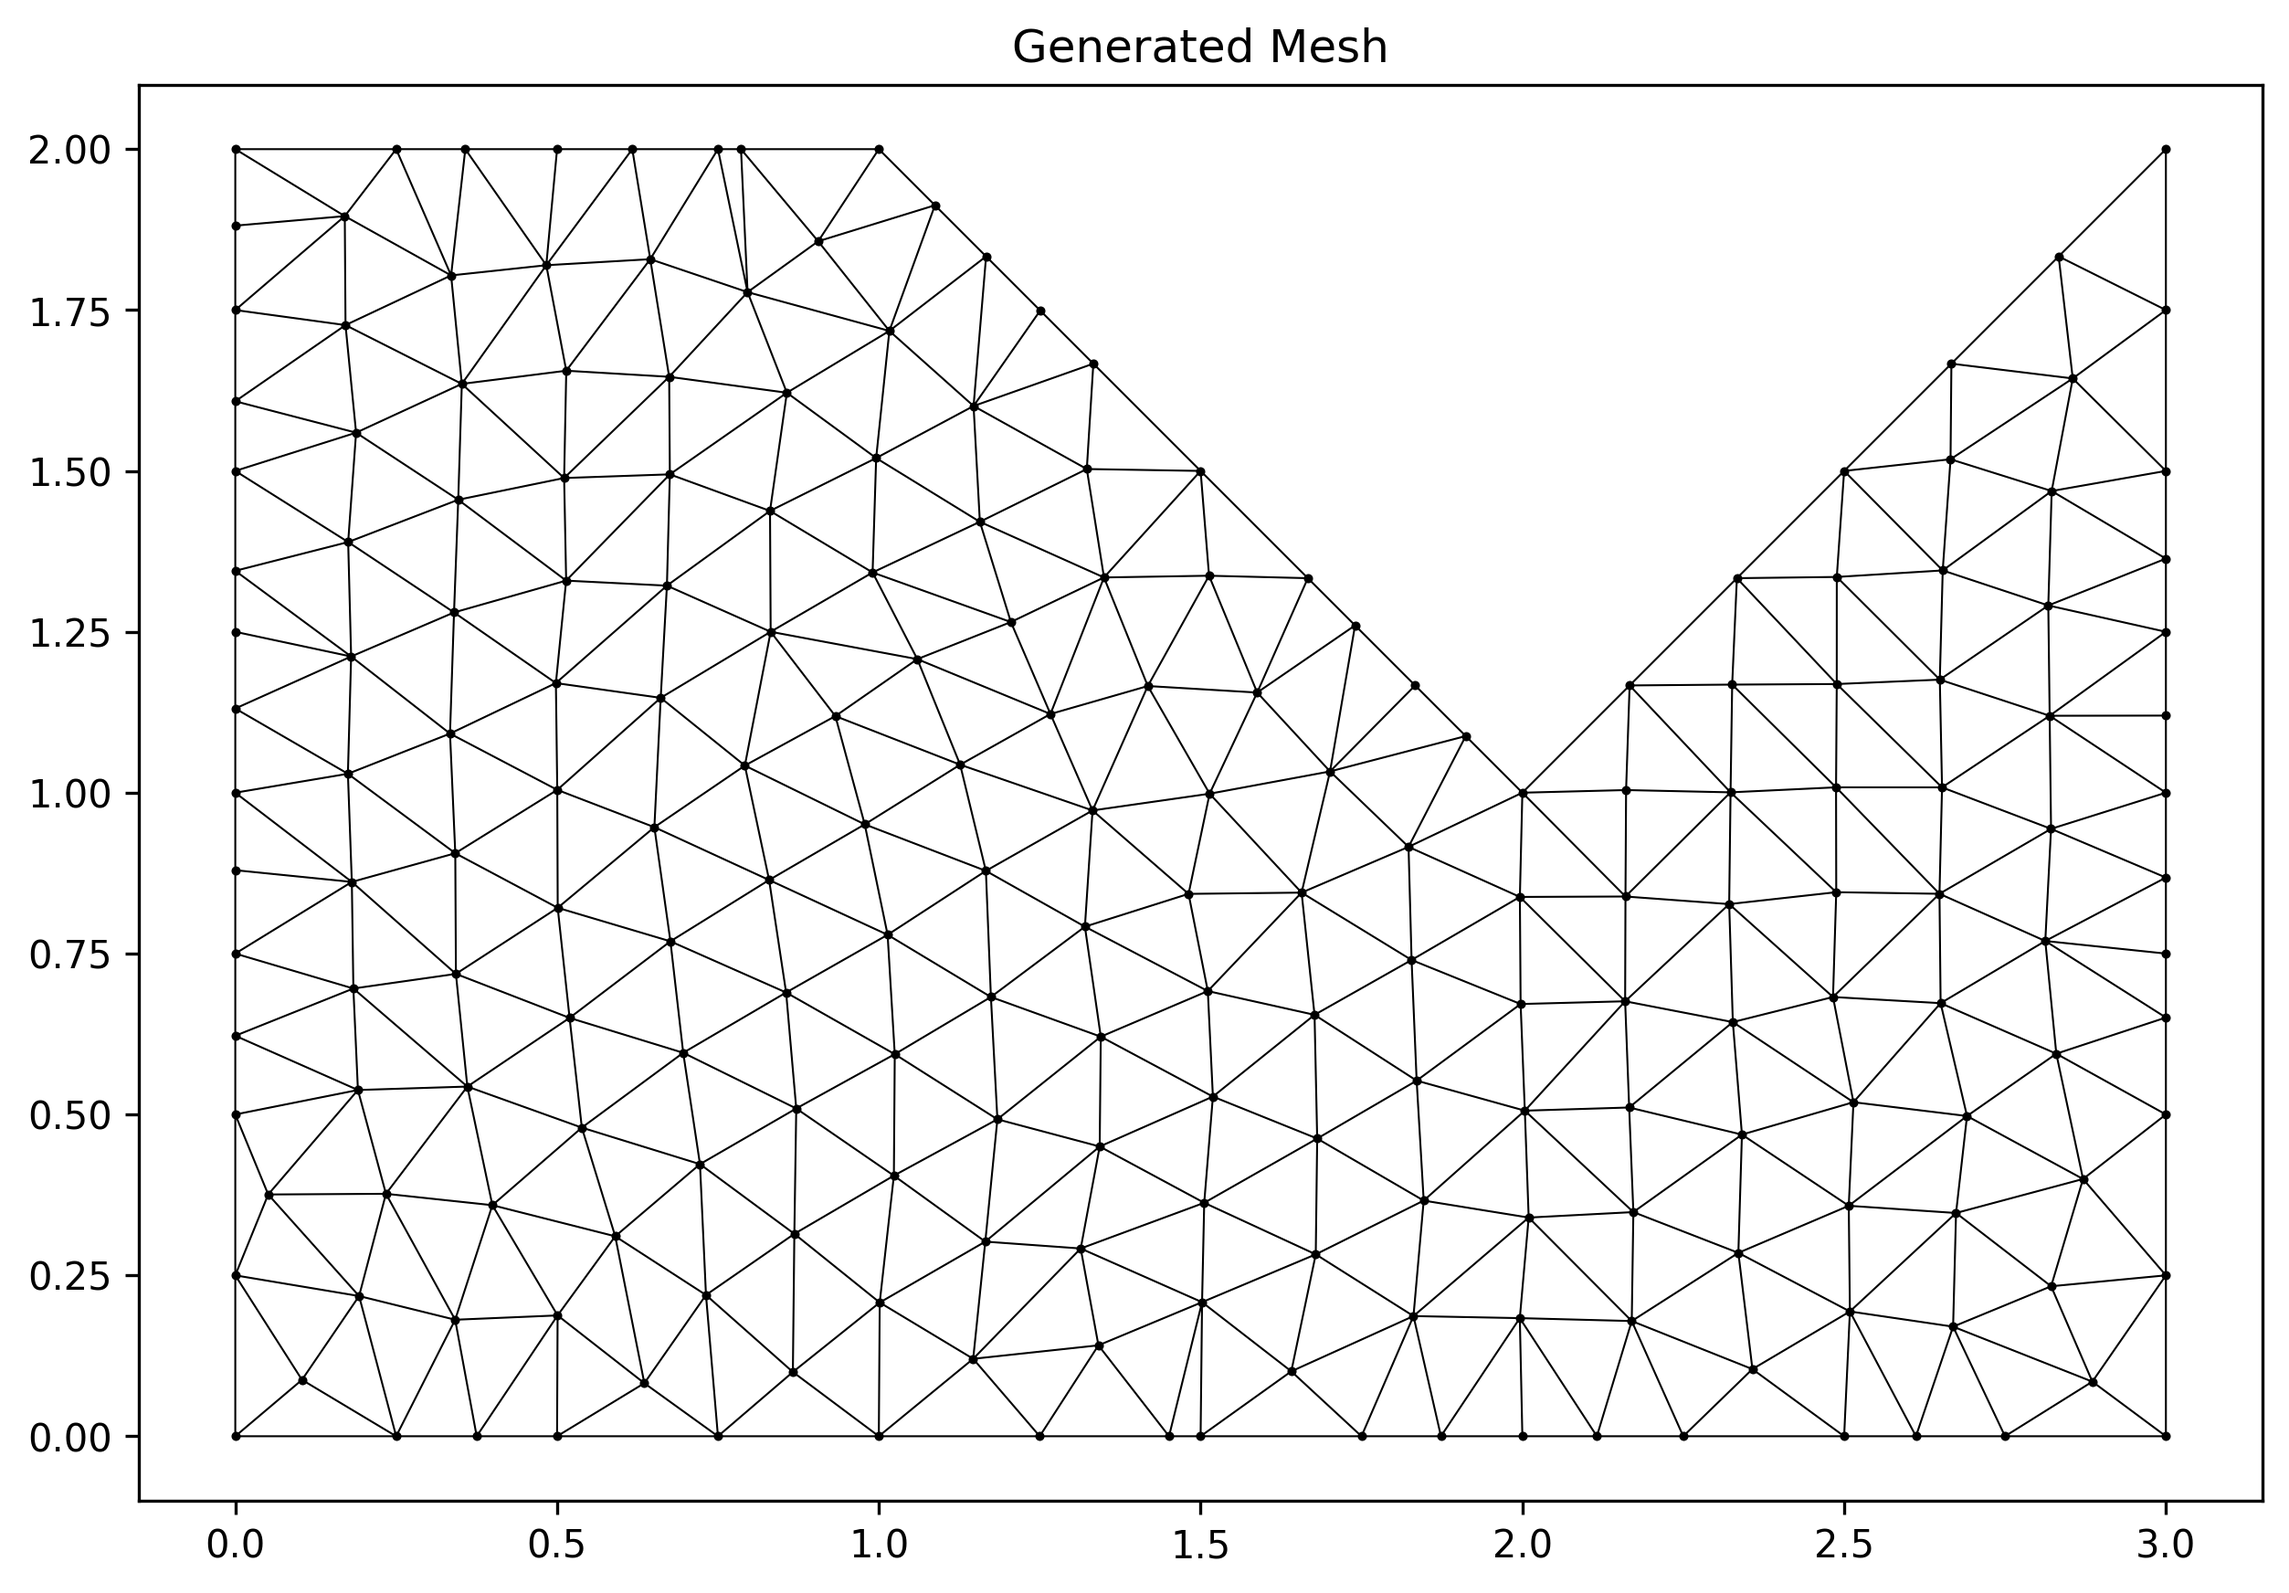
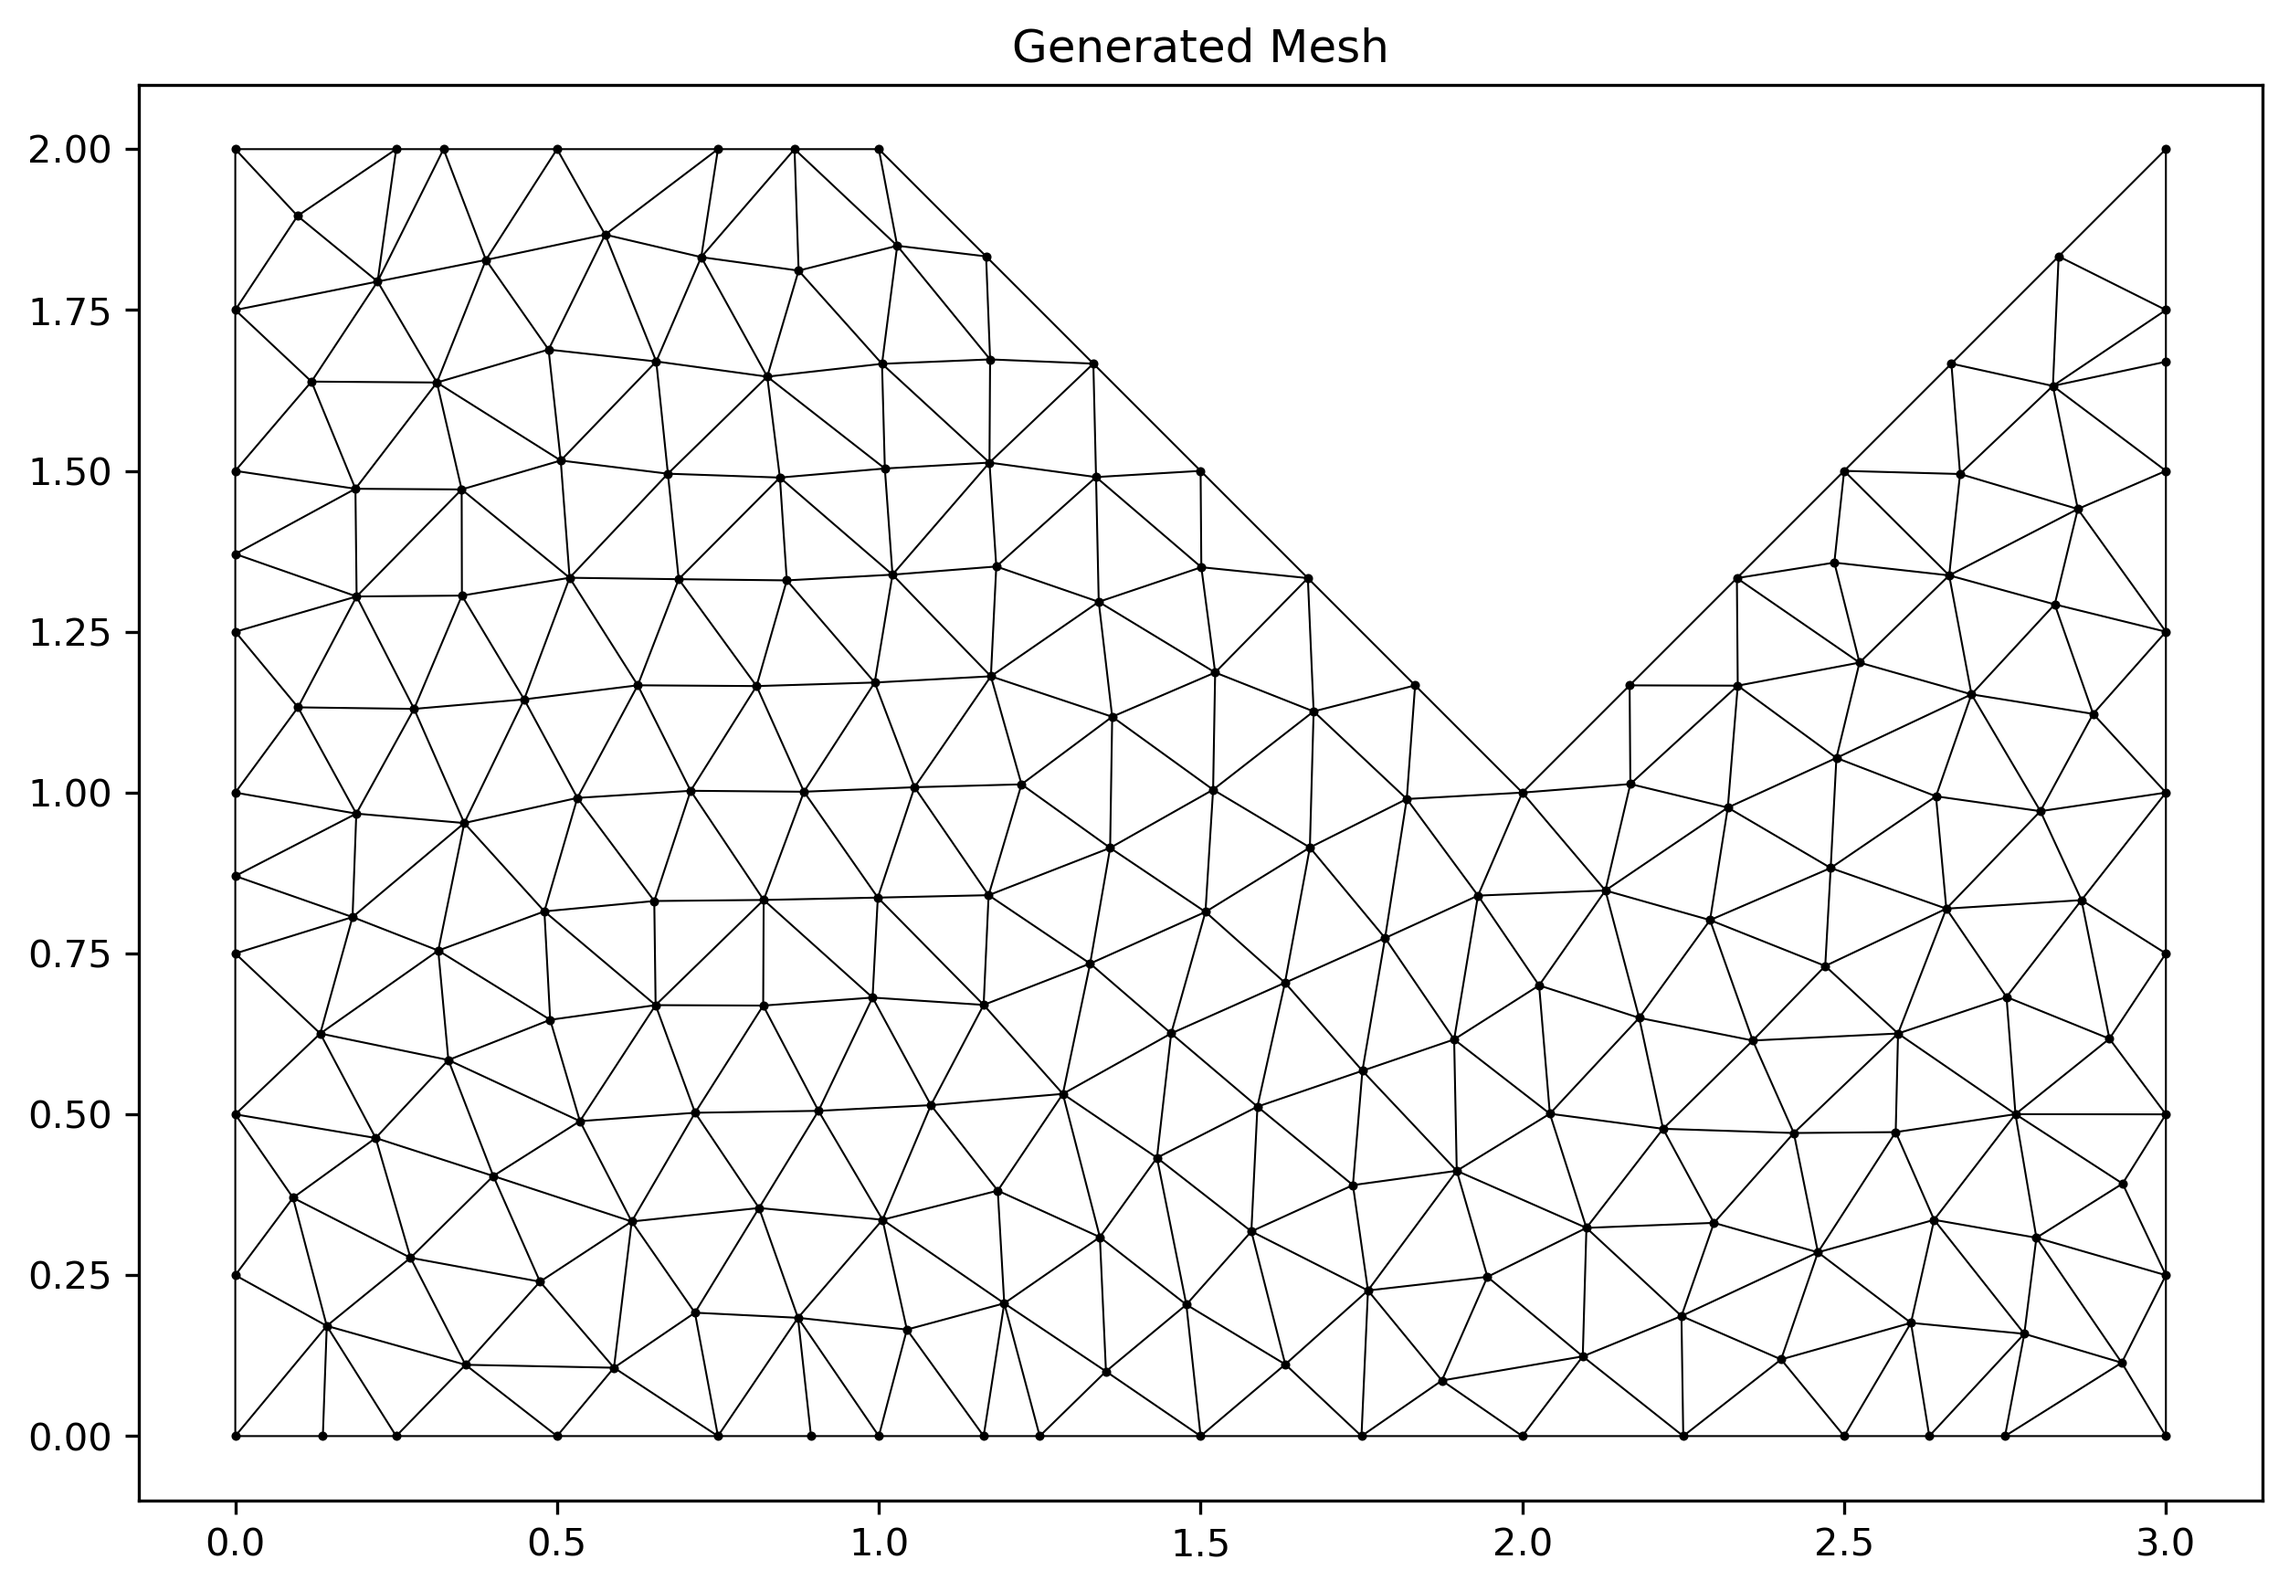
Adjusted Mesh deletion (coalescence) target value, and sizing (transition zone gradient smoothing) values to increase mesh quality

diff --git a/main.py b/main.py
@@ -1,4 +1,5 @@
 ''' main.py '''
+import numpy as np
 from core import input_reader
 from mesh import MeshGenerator
 from viz import MeshPlotter
@@ -18,6 +19,12 @@ if __name__ == '__main__':
     print(f"Minimum Quality: {stats['min']:.4f}")
     print(f"Average Quality: {stats['avg']:.4f}")
     print(f"Sliver Count (Q < 0.2): {len(stats['worst_indices'])}")
+    
+    if stats['min'] < 0.01:
+        bad_indices = np.where(q_values < 0.01)[0]
+        print(f"Degenerate Cell Indices: {bad_indices}")
+        # The vertices of the first bad cell
+        print(f"Vertices of Cell {bad_indices[0]}: \n{smoothed_points[final_cells[bad_indices[0]]]}")
     
     # 3. Package for Plotter
     plot_data = {

diff --git a/mesh/sizing.py b/mesh/sizing.py
@@ -24,7 +24,8 @@ class SizingField:
             dy = np.maximum(0, np.maximum(ymin - points[:, 1], points[:, 1] - ymax))
             dist = np.sqrt(dx**2 + dy**2)
             
-            h_box = h_target + (0.05 * dist)
+            # Increase from 0.05 to 0.1 or 0.2 for a smoother transition zone
+            h_box = h_target + (0.15 * dist)
             h_values = np.minimum(h_values, h_box)
             
         return h_values

diff --git a/mesh/generator.py b/mesh/generator.py
@@ -79,7 +79,7 @@ class MeshGenerator:
         h_target = self.field(midpoints)
         
         # Now both arrays have the same shape, allowing comparison
-        too_close = (edge_lens < 0.4 * h_target)
+        too_close = (edge_lens < 0.5 * h_target)
         
         if np.any(too_close):
             kill_list = edges[too_close, 1]
